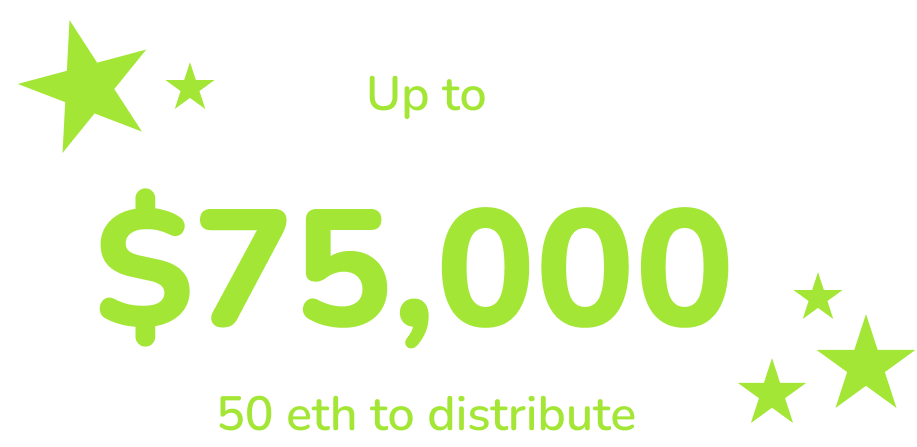
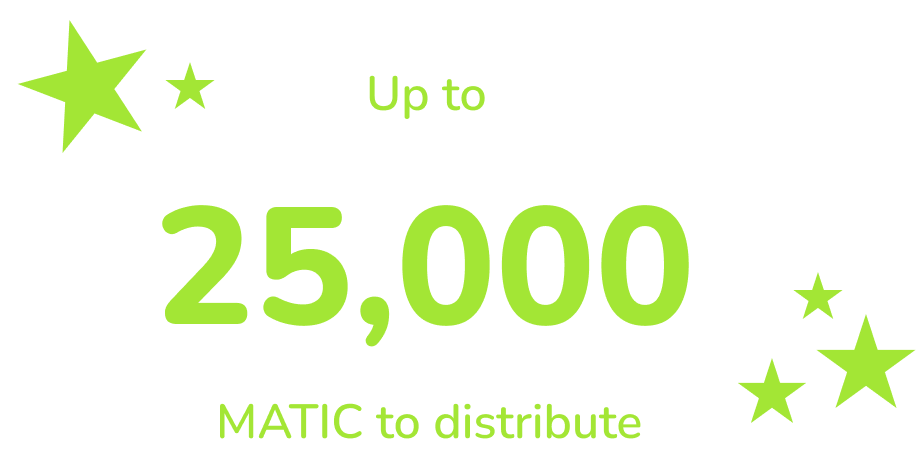
Update prize to matic

diff --git a/src/components/Social.js b/src/components/Social.js
@@ -33,7 +33,7 @@ const Social = ({size = 'xl'}) => {
       <OutboundLink href="https://twitter.com/the_pixelcup" rel="noreferrer" target="_blank" aria-label="Twitter">
         <FontAwesomeIcon icon={faTwitter} size={size} />
       </OutboundLink>
-      <OutboundLink href="https://opensea.io/collection/thepixelcup" rel="noreferrer" target="_blank" aria-label="OpenSea">
+      <OutboundLink href="https://opensea.io/collection/the-pixel-cup" rel="noreferrer" target="_blank" aria-label="OpenSea">
         <img className={`inline ${imgClass}`} src={openseaIcon} alt="OpenSea" />
       </OutboundLink>
       <OutboundLink href="https://github.com/thepixelcup" rel="noreferrer" target="_blank" aria-label="Github">

diff --git a/src/components/UserStickers.js b/src/components/UserStickers.js
@@ -83,6 +83,7 @@ const UserStickers = ({contract, wallet, collection}) => {
           { Object.keys(stickerCountries).map(c => <CountryFlag active={activeCountry === c} onClick={() => filterByCountr(c)} key={c} flag={c} total={stickerCountries[c]} />)}
         </div>
         <h1 className="text-xl my-4">{activeCountry ? activeCountry : 'All stickers'}</h1>
+        {filterStickers.length === 0 && <p>You don't have any stickers yet. Open a pack to get 3 random stickers</p>}
         <div className="mt-4 grid md:grid-cols-6 gap-4 grid-cols-2">
           { filterStickers.map(s => <Sticker key={s.tokenId} token={s.tokenId} />) }
         </div>

diff --git a/src/components/modals/Packs.js b/src/components/modals/Packs.js
@@ -89,7 +89,7 @@ const Packs = ({show, onClose, contract, onError, onComplete, completeText}) => 
                 Disconnect Wallet
               </button>
               <span className="flex-grow text-right text-xl">
-                Total: <FontAwesomeIcon className="text-neutral-300" icon={faEthereum} /> {packPrice*numberOfPacks} 
+                Total: {packPrice*numberOfPacks} MATIC
               </span>
             </div>
           </div>

diff --git a/src/pages/docs/rules.md b/src/pages/docs/rules.md
@@ -7,7 +7,7 @@ order: 4
 A fully transparent, decentralized and open sourced sticker album. 
 
 ## Albumetrics
-- **10 matic** Price per pack.
+- **5 matic** Price per pack.
 - **10,000** Available packs to mint.
 - **3** Stickers you can mint per pack.
 - **1,568** Unique stickers. (*)
